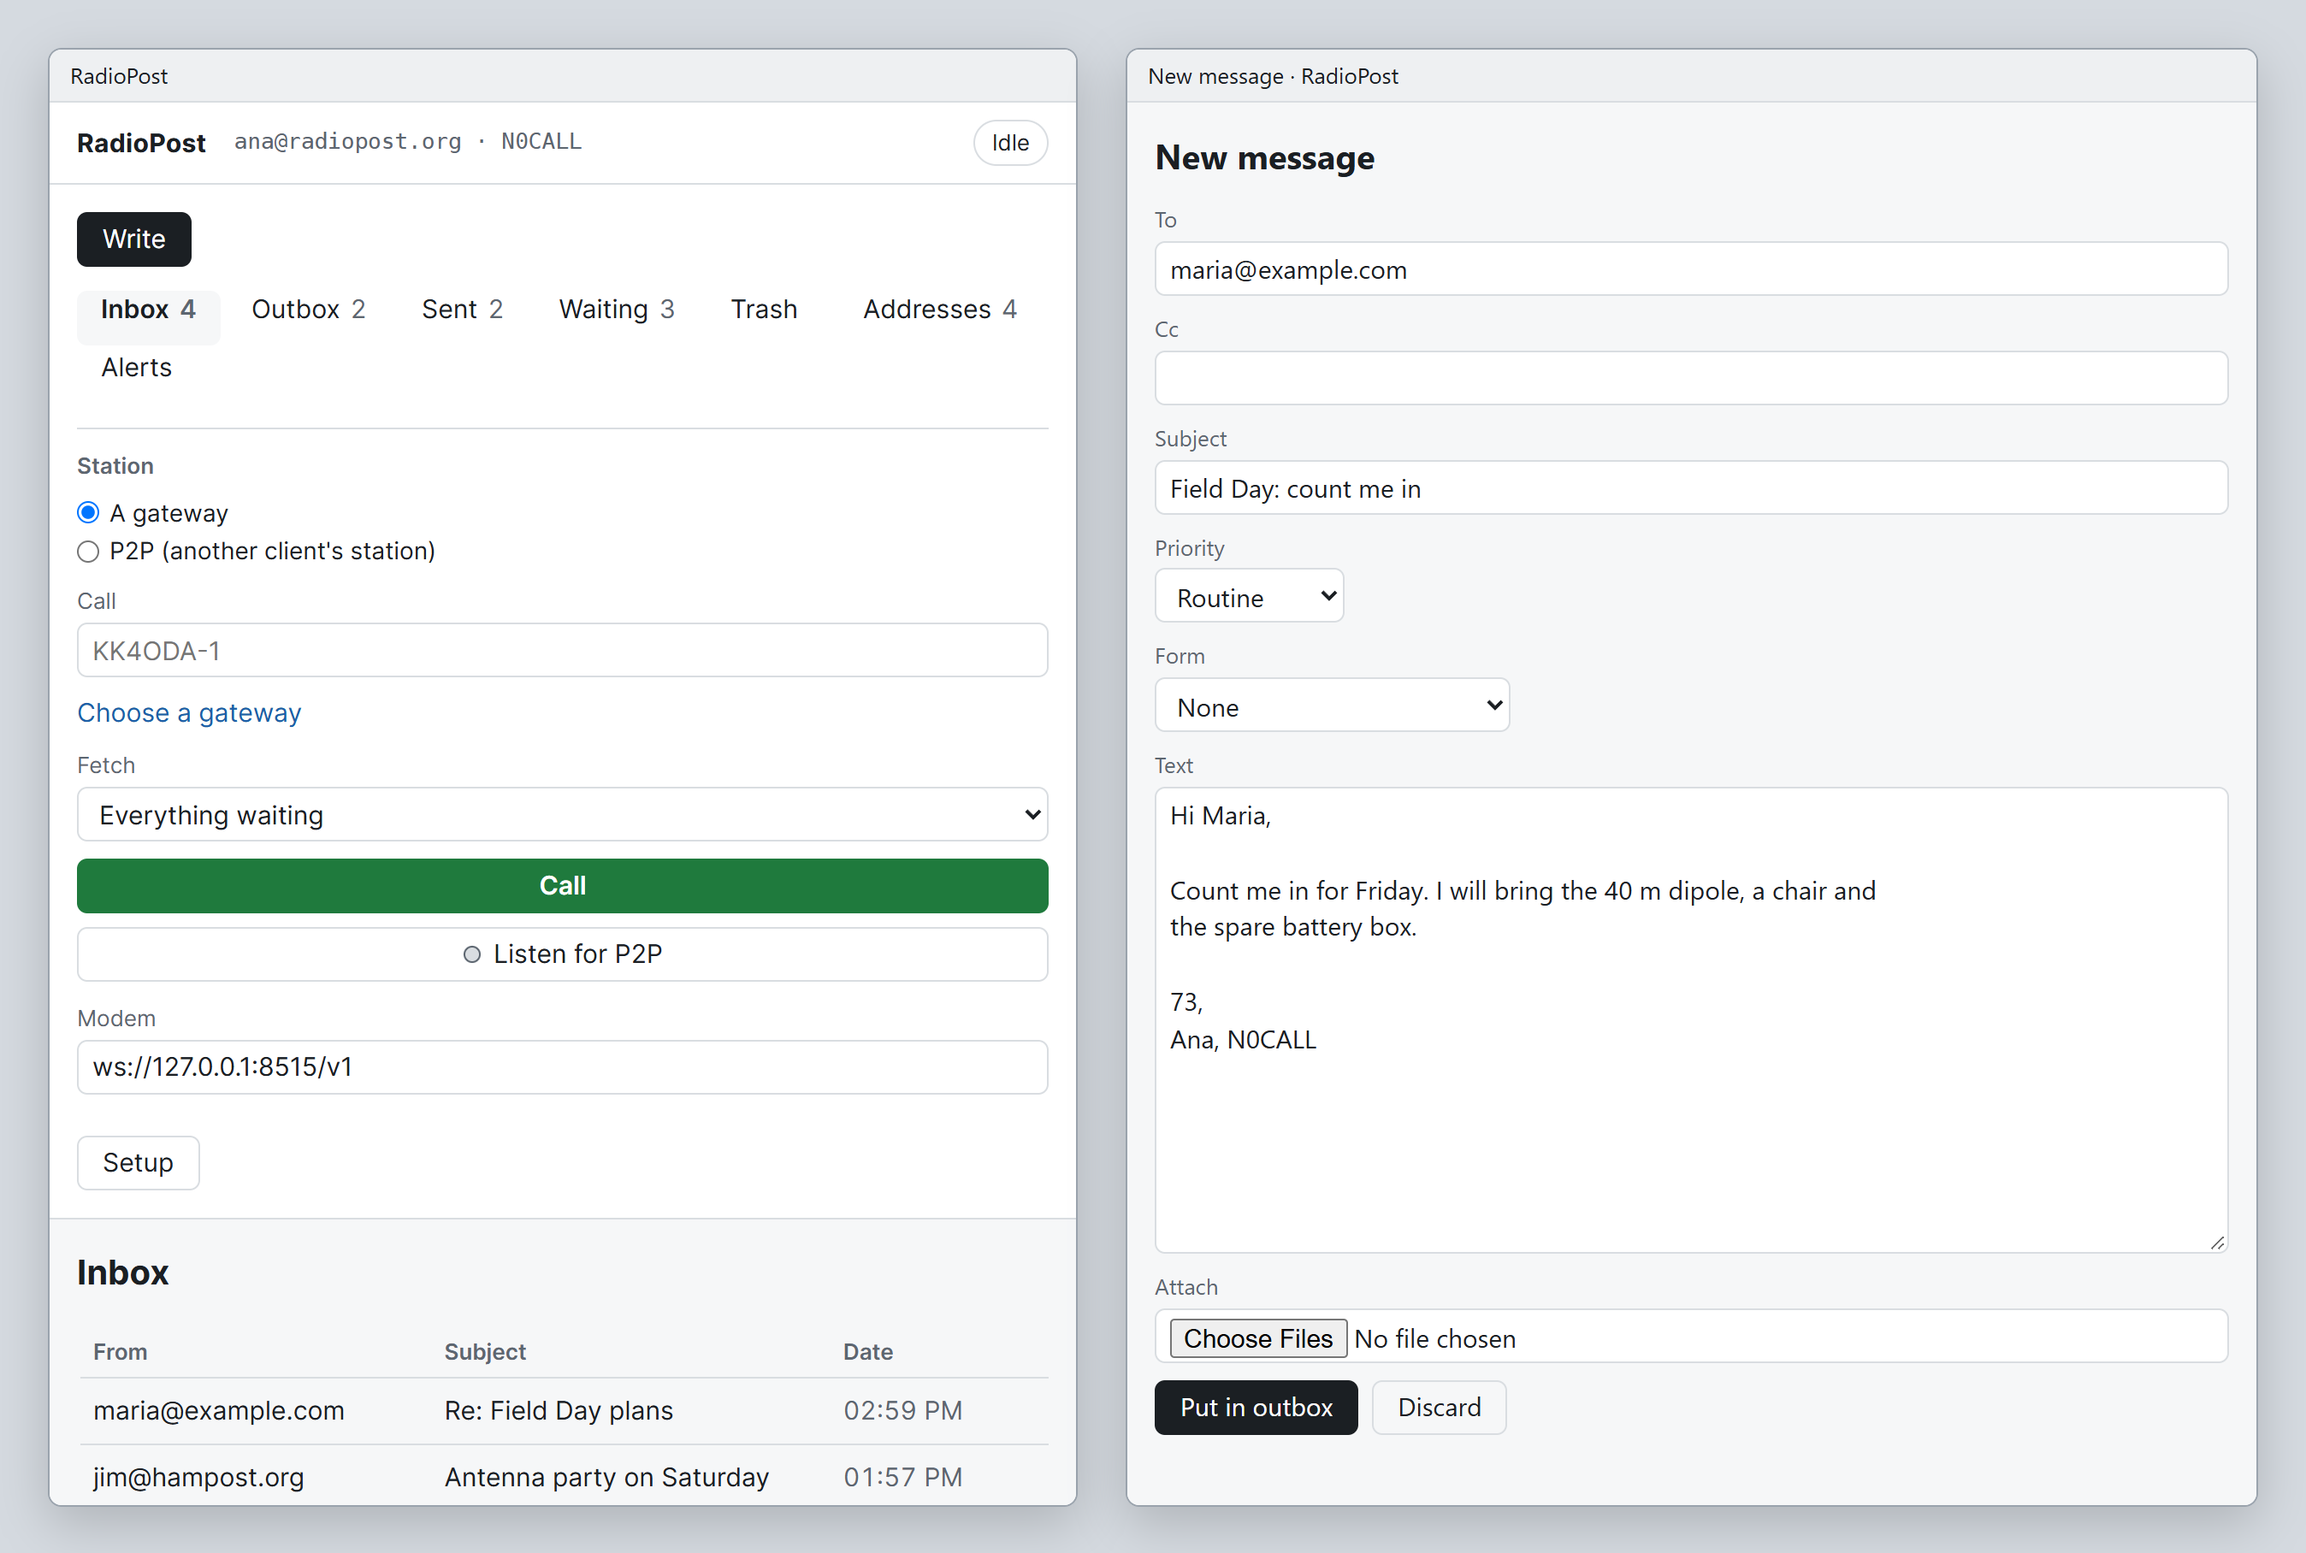
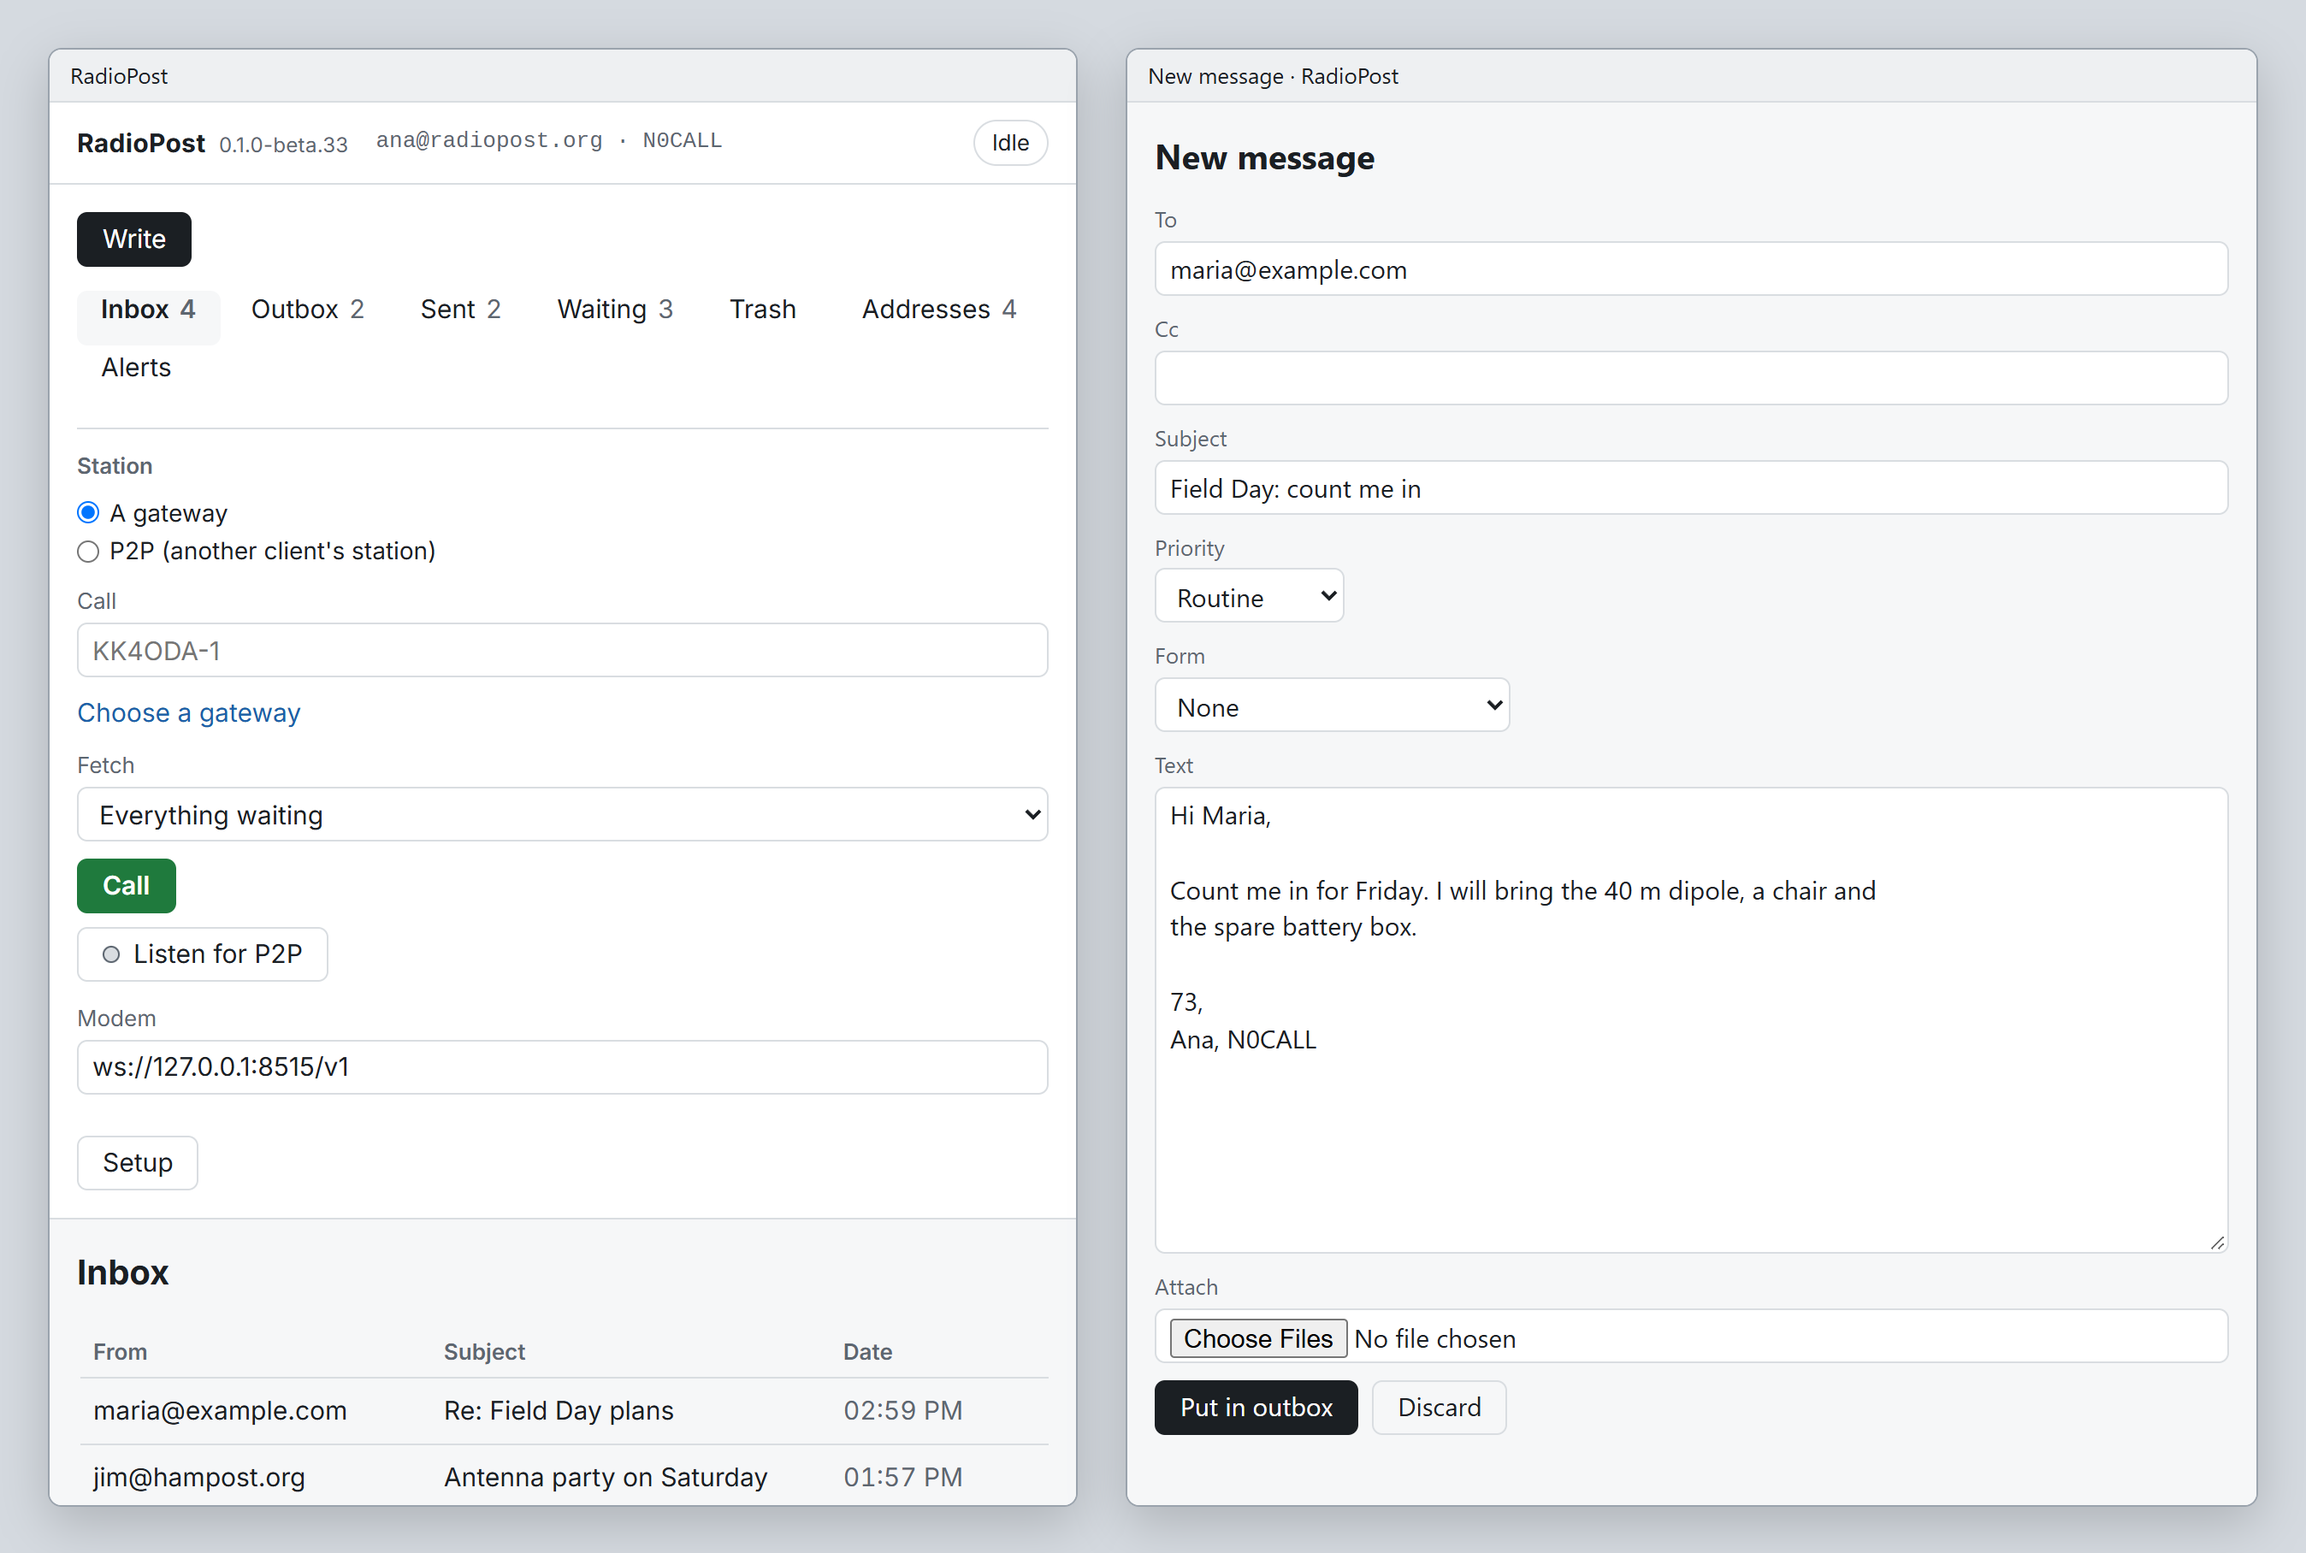
fix(client): Call and Listen for P2P as wide as their words in a narrow window
From the session of 2026-11-21: in a tall, narrow window Call stretched
across the whole window. The stacked layout (720 px and under) had given
Write, Post office and Setup their own widths (8ebb898), but Call kept
flex: 1 and Listen for P2P flex: 1 0 100% in their row, which there is
the window's width: at 420 px both were 388 px wide.

The row is now a column: in the side column both are as wide as the
column, as before (the wide layout's pixels are unchanged at 760 and
1280 px); stacked, they keep their own widths, Call 58 px and Listen
147 px (171 px pressed), left-aligned, nothing overflowing. Listen stays
on a row of its own, so the box keeps its shape when it reads Listening.

Checked in Chrome at 420x900, 500x1000, 600x820, 760x1000 and 1280x800,
Listen out and pressed. Manual 1.40.1: §6, Figure 12 retaken.

diff --git a/app/ui/style.css b/app/ui/style.css
@@ -30,7 +30,7 @@ button { height: var(--control-h); padding: 0 14px; border: 1px solid var(--line
 button:hover { border-color: var(--muted); }
 button.primary { background: var(--key); color: var(--key-text); border-color: var(--key); }
 button.quiet { background: transparent; }
-/* the one button that puts the station on the air: green, and as wide as its row allows */
+/* the one button that puts the station on the air: green */
 button.go { background: var(--go); color: var(--go-text); border-color: var(--go); font-weight: 600; }
 button.go:hover:not(:disabled) { border-color: var(--go); filter: brightness(1.08); }
 /* Listen for P2P: a push-on, push-off switch. Out, its lamp is dark. Pressed, it stays in, sunk,
@@ -160,6 +160,7 @@ main { padding: 20px 24px; overflow: auto; min-width: 0; }
   .frame { grid-template-columns: 1fr; overflow: visible; }
   .side { border-right: 0; border-bottom: 1px solid var(--line); }
   .side > .primary, #office-open, #setup-open { width: auto; align-self: flex-start; }
+  .station .row { align-items: flex-start; }
   .folders { display: flex; flex-wrap: wrap; gap: 2px 4px; }
   .folders button { width: auto; gap: 6px; }
   .side .folders li.sep { border-top: 0; margin-top: 0; padding-top: 0; }
@@ -175,9 +176,10 @@ main { padding: 20px 24px; overflow: auto; min-width: 0; }
 .kinds label.check { margin: 0; color: var(--text); font-size: 14px; }
 #gateways-open { margin: -4px 0 10px; padding: 0; height: auto; border: 0; color: var(--accent); }
 /* the call box: a station call's dial and bandwidth side by side, where the radio is, the tone */
-.station .row #call { flex: 1; }
-/* Listen for P2P on a row of its own, so that the box keeps its shape when it reads Listening */
-.station .row #listen { flex: 1 0 100%; justify-content: center; }
+/* Call, and Listen for P2P on a row of its own under it, so that the box keeps its shape when it
+   reads Listening. Both as wide as the column; stacked, as wide as their words (above) */
+.station .row { flex-direction: column; }
+.station .row #listen { justify-content: center; }
 .pair { display: grid; grid-template-columns: 1fr auto; gap: 8px; }
 .pair select { width: auto; }
 .tuning { display: flex; flex-direction: column; align-items: flex-start; gap: 4px; margin: -2px 0 10px; }

diff --git a/docs/manual/manual.md b/docs/manual/manual.md
@@ -5,7 +5,7 @@
 | | |
 |---|---|
 | **Status** | Current |
-| **Version** | 1.40.0 |
+| **Version** | 1.40.1 |
 | **Updated** | 2026-11-21 |
 | **Describes** | RadioPost 0.1.0-beta.33 |
 | **Licence** | CC BY 4.0 |
@@ -380,7 +380,8 @@ Every button and box has a tooltip: rest the mouse on it to read what it does.
 
 When the window is narrow (720 pixels wide or less, at 100 % display scale), its parts stack in
 one column: **Write**, the folders side by side, **Station**, then the folder or message you are
-looking at.
+looking at. The buttons keep their own widths there: **Call** and **Listen for P2P** are as wide as
+their words, not the window.
 
 ## 7. Writing a message
 
@@ -2445,3 +2446,4 @@ manual in the same commit. The rule is in `CONTRIBUTING.md`.
 | 1.38.0 | 2026-11-21 | §8.1 *What your calls teach*: an HF channel's line worked out with what your calls taught once you have called the gateway on that band, a VHF channel's line under its terrain, what each kind of call teaches; **Details** beside each gateway, the model, what was learned and what was measured side by side (new Figure 16; later figures renumbered); the warning when your own station looks at fault; forgetting, by gateway, place, day or everything, with **Undo** and **Show forgotten calls** (Figure 14 retaken). §4: `selection/learned.json` and `selection/forgotten.json`. §37: the station's warning. Figure 13 retaken with **Details**. |
 | 1.39.0 | 2026-11-21 | RadioPost Gateway reports its status to its post office (RP-5 1.6.0): Setup's **Report its status to its post office, for anyone to see** (section 18), what it says and when under *Its status, for anyone to see*, the line under **Registration** (section 19), and `status --off` (section 23). Figures 37 and 38 retaken. |
 | 1.40.0 | 2026-11-21 | §10: an alert goes on a **Dial** (the other station's gateway channel predicted best, the circle's watch dial, or where the radio is), the radio tuned there; copies sent while the other station's gateway scans round; a circle's **Watch dial, MHz**, and the red line when the radio or the gateway's scan is not on it; answers go on the dial the alert was heard on, shown in the alarm, and **Call back** fills **Dial, MHz** with it (RP-8 0.2.0). |
+| 1.40.1 | 2026-11-21 | From the session of 2026-11-21. §6: in a narrow window **Call** and **Listen for P2P** are as wide as their words, as **Write** and **Setup** are; they had stretched across the window. Figure 12 retaken. |
